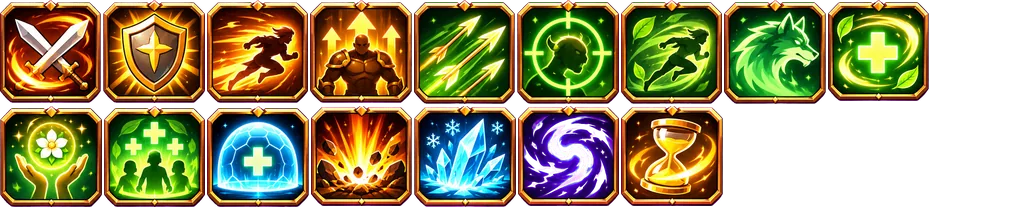
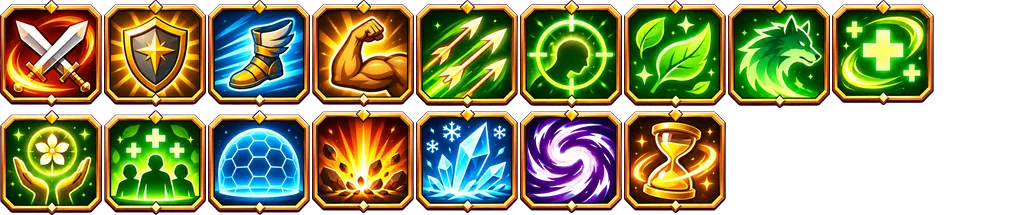
Icônes de talents v2 (botte ailée pour l'Éclaireur)
Claude-Session: https://claude.ai/code/session_017NXKozBixpycmT8MjP6Vkd

diff --git a/src/talents.js b/src/talents.js
@@ -8,7 +8,7 @@ export const SPECS=[
   {id:'briseur',n:'Briseur',ic:12,d:'Repousse et écrase contre les obstacles.',t:[['Onde de choc','Fracas repousse de 3 cases',{sp:{smash:{push:3,d:'Gros coup qui repousse de 3 cases, 1 fois par tour'}}}],['Impact brutal','Collisions : 7 dégâts par case au lieu de 5'],['Fracas affaiblissant','Fracas retire 1 PM à la cible']]}],
  [{id:'tireur',n:'Tireur',ic:4,d:'Tire de plus loin et plus juste.',t:[['Œil de lynx','Portée de Tir : 7 au lieu de 6',{sp:{shot:{r:[2,7]}}}],['Précision','Critique 22 % au lieu de 12 %'],['Flèche perforante','Tir ignore la moitié de l’armure']]},
   {id:'chasseur',n:'Chasseur',ic:5,d:'Ralentit et piège ses proies.',t:[['Tir entravant','Tir retire 1 PM à la cible',{sp:{shot:{slow:1,d:'Flèche à distance, ligne de vue, retire 1 PM au prochain tour'}}}],['Volée affaiblissante','Volée retire 1 PM aux ennemis touchés'],['Piège naturel','Nouveau sort : Piège']]},
-  {id:'eclaireur',n:'Éclaireur',ic:6,d:'Bouge plus, esquive.',t:[['Agilité','4 PM au lieu de 3',{maxPM:4}],['Vent rapide','Bottes ailées : +3 PM'],['Insaisissable','15 % de chances d’esquiver une attaque']]}],
+  {id:'eclaireur',n:'Éclaireur',ic:2,d:'Bouge plus, esquive.',t:[['Agilité','4 PM au lieu de 3',{maxPM:4}],['Vent rapide','Bottes ailées : +3 PM'],['Insaisissable','15 % de chances d’esquiver une attaque']]}],
  [{id:'guerisseuse',n:'Guérisseuse',ic:8,d:'Des soins plus forts, jusqu’à la résurrection.',t:[['Lumière bienfaitrice','Soins ×1,20',{healMul:1.2}],['Grâce','Portée de Soin : 5'],['Renaissance','Nouveau sort : relève un héros KO']]},
   {id:'druide',n:'Druide',ic:9,d:'Un poison qui ronge et se propage.',t:[['Venin puissant','Poison d’Épine : 6 par tour',{sp:{venom:{poison:[6,2],d:'Dégâts + poison (6 par tour) pendant 2 tours'}}}],['Venin persistant','Poison : 3 tours'],['Contagion','Le poison se propage à la mort de la cible']]},
   {id:'enchant',n:'Enchanteresse',ic:14,d:'Renforce toute l’équipe.',t:[['Aura supérieure','Aura : +40 % de dégâts',{sp:{aura:{buff:.4,d:'+40 % de dégâts à un allié, 2 tours'}}}],['Bénédiction durable','Aura : 3 tours'],['Bénédiction collective','Aura touche tous les héros']]}]];
